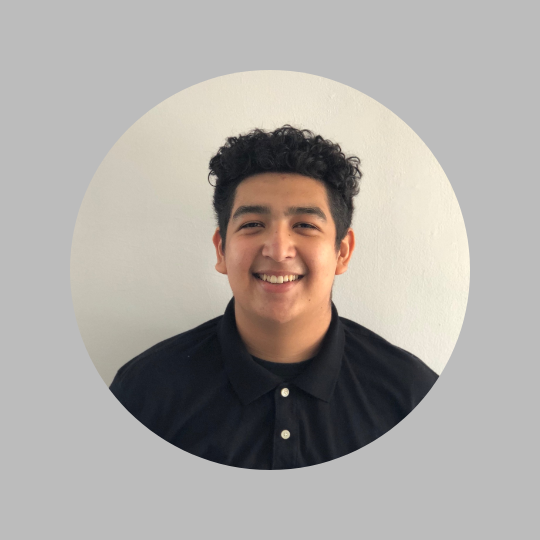
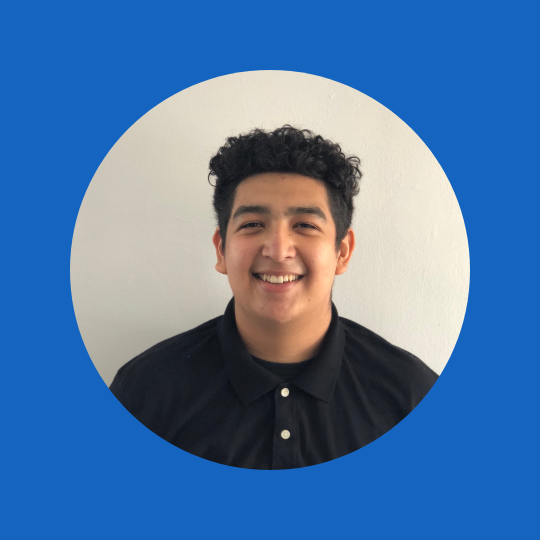
Color change

diff --git a/index.html b/index.html
@@ -109,11 +109,11 @@
         <div class="container icons">
                 <a id="github" href="https://github.com/GabeGonzalez7">
                         <i class="fab fa-github"></i>
-                        <p>Github</p>
+                        <p id="git">Github</p>
                 </a>
-                <a href="https://www.linkedin.com/in/gabriel-gonzalez-981693167/">
+                <a id="linkedin" href="https://www.linkedin.com/in/gabriel-gonzalez-981693167/">
                         <i class="fab fa-linkedin"></i>
-                        <p>LinkedIn</p>
+                        <p id="linkedin">LinkedIn</p>
                 </a>
                 <!-- <a id="envelope" href="" data-toggle="modal" data-target="#exampleModal">
                     <i class="fas fa-envelope"></i>
@@ -121,7 +121,7 @@
                 </a> -->
                 <a id="resume" href="https://docs.google.com/document/d/1Q8IvCwCMH3LZAcA4Jf6hP-z30ZAZ-9LiaMgspxo-fmY/edit?usp=sharing" >
                     <i class="fas fa-file-alt"></i>
-                    <p>Resume</p>
+                    <p id="resumes">Resume</p>
                 </a>
         </div>
         

diff --git a/style.css b/style.css
@@ -1,5 +1,5 @@
 .navbar {
-    background-color: black;
+    background-color: #003CBF;
     display: flex;
     flex-wrap: wrap;
 }
@@ -7,7 +7,7 @@
 
 .jumbotron {
     text-align: center;
-    background-color: #BCBCBC;
+    background-color: #1565C0;
 }
 
 .btn-primary { 
@@ -92,7 +92,7 @@ h2, h4, p {
 
 
 #mywork {
-    background-color: black;
+    background-color: #003CBF;
     text-align: center;
 }
 
@@ -102,7 +102,7 @@ h2, h4, p {
 
 #about {
     color: white;
-    background-color:black;
+    background-color:#1565C0;
     text-align: center;
     justify-content: center;
 }
@@ -165,7 +165,7 @@ h2, h4, p {
 }
 
 #work {
-    background-color: grey;
+    background-color: #F7F7F7;
     width: 100%;
 }
 
@@ -283,6 +283,7 @@ a:hover{
 
 #resume {
     padding-left: 25px;
+    color: white;
 }
 
 #texts {
@@ -294,4 +295,20 @@ a:hover{
 
 #mycontact {
     font-size: 20px;
+}
+
+.tracking-in-expand {
+    color: white;
+}
+
+#linkedin, #git, #resumes {
+    color: white;
+}
+
+#linkedin:hover, #git:hover, #resumes:hover {
+    color: gray;
+}
+
+.my-4 {
+    background-color: white;
 }
